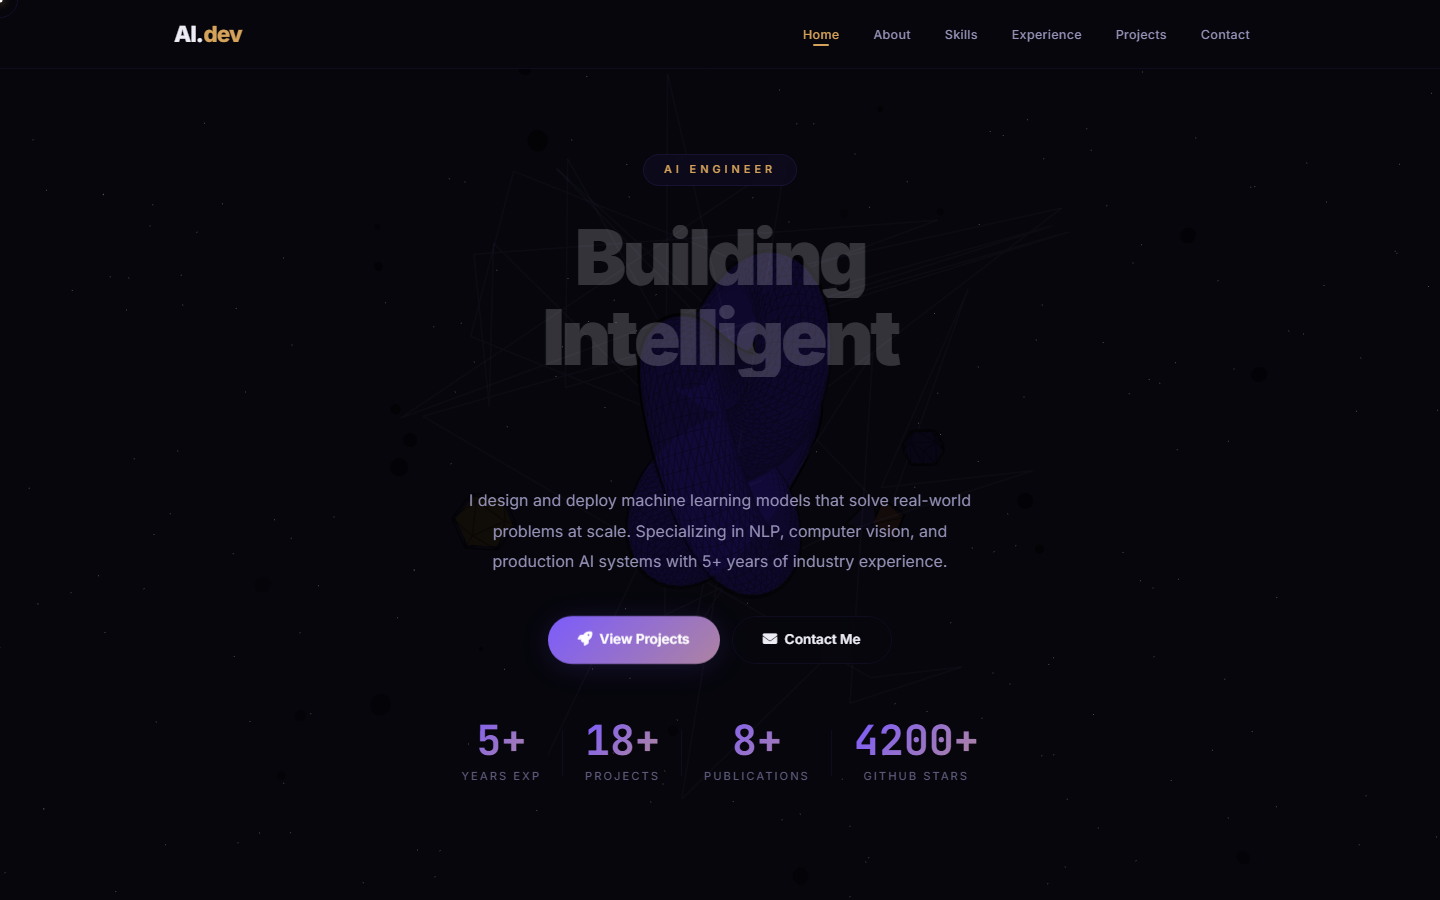
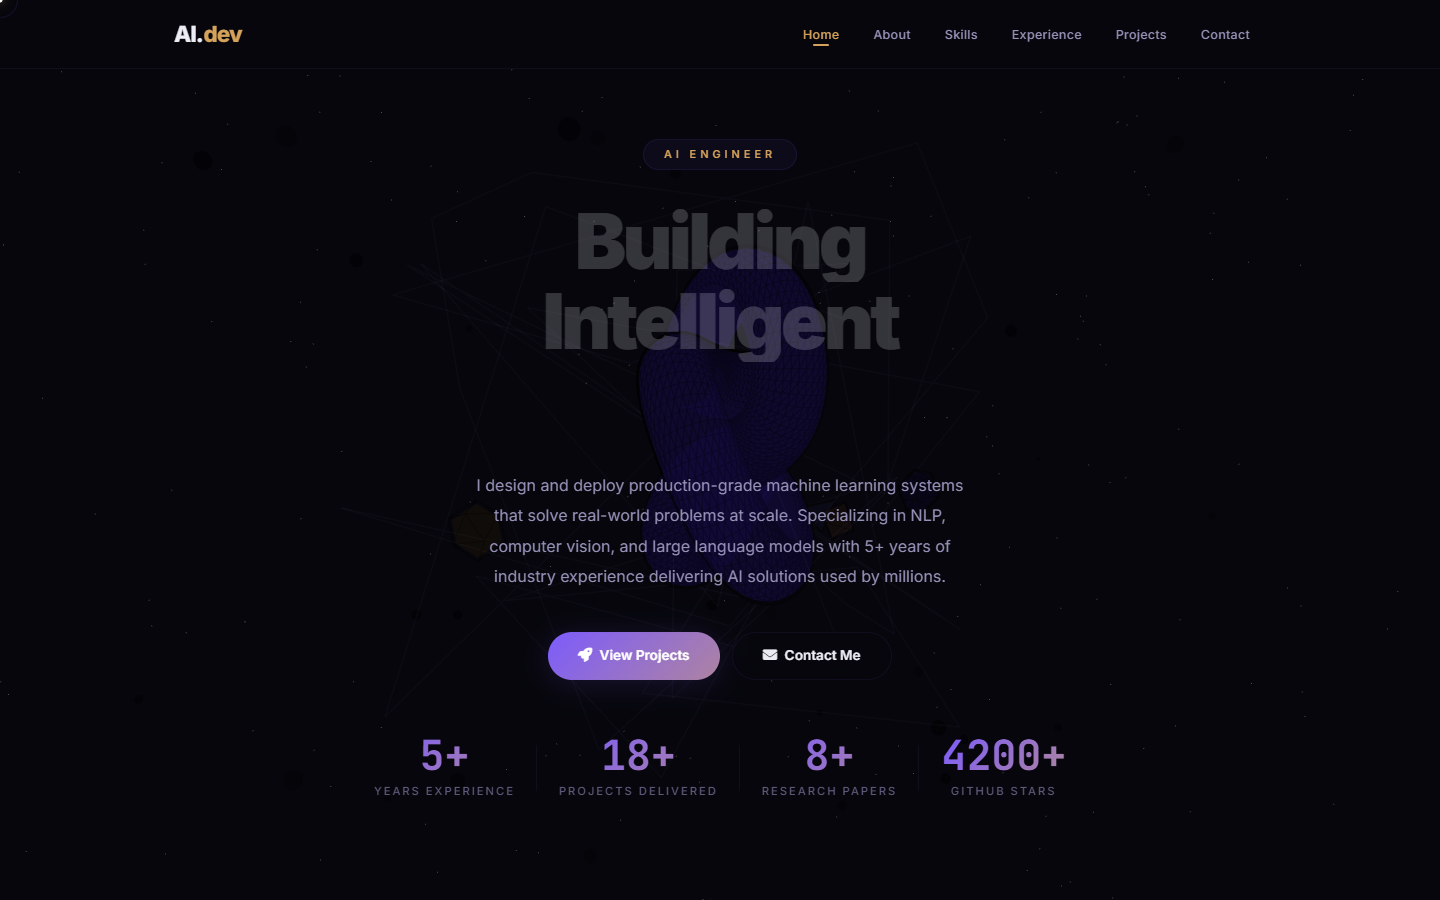
Update data.json with polished content, clean up screenshots, update README

diff --git a/README.md b/README.md
@@ -2,11 +2,13 @@
 
 Portofolio website interaktif dengan pengalaman 3D imersif, smooth scroll, dan micro-animasi bertaraf Awwwards. Dibangun menggunakan Express.js, Three.js, GSAP, dan Lenis.
 
-## Screenshot
+## Tampilan Website
+
+**1. Halaman Utama — Hero Section dengan 3D Interactive Background**
+
+Three.js scene menampilkan torus knot berwarna amethyst dengan wireframe gold, geometric shapes berorbit, dan starfield. Tekstur glassmorphism pada card, gradient accent (purple → gold), dan custom cursor.
 
 ![Hero Section](screenshot-hero.png)
-![Full Page](screenshot-full.png)
-![Mobile View](screenshot-mobile.png)
 
 ## Fitur
 